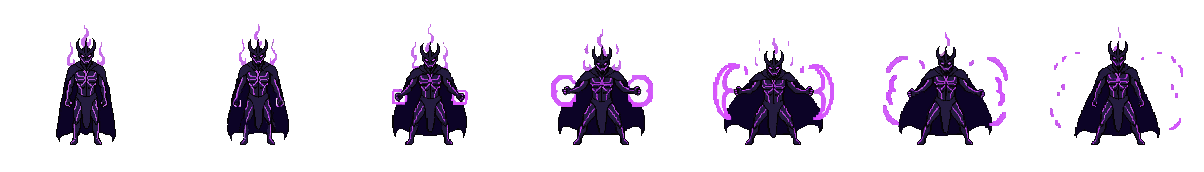
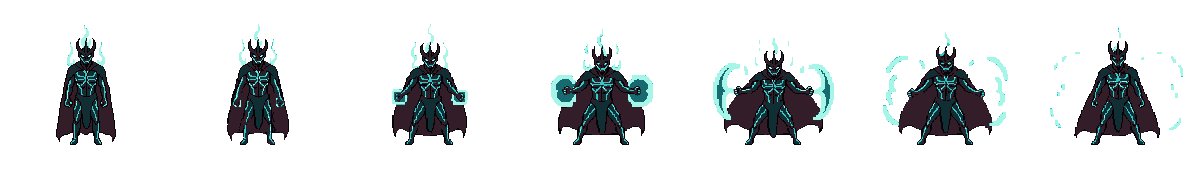
v7.5: morte dei nemici, aspetti Pixellab, nuovi colori di Azhrakel
Con «Grafica Pixellab» accesa:
- i 30 nemici hanno l'animazione di morte e restano a terra;
- i 50 aspetti degli eroi hanno la loro versione (figura e animazioni
  ricolorate), anche nel negozio degli aspetti; si caricano solo quando servono;
- Azhrakel ha la palette verde abissale, turchese, ciano e menta, per non
  somigliare a Morvath e a Ignivora;
- alone chiaro dietro i boss nelle schede dei dungeon.
55 prove automatiche.

diff --git a/index.html b/index.html
@@ -215,6 +215,9 @@ body[data-dg="cripte"] .mapsvg .edge.done{stroke:#8fd3ff}body[data-dg="cripte"] 
 .pxe,.ent.enemy .face .spr.pxe{width:calc(var(--t)*var(--k));height:calc(var(--t)*var(--k))}
 .spr.inl.pxe{display:inline-block;vertical-align:middle}
 .spr.pxi{image-rendering:auto}
+.enemy.dead .spr.pxe{transform:none}.enemy.dead .spr.pxe.pxan{animation:pxan var(--d) steps(var(--n),jump-none) 1 forwards}
+.enemy.dead:has(.pxe){opacity:.7;filter:grayscale(.35)}
+.dg .dgart:has(.pxe){border-radius:50%;background:radial-gradient(circle,rgba(255,240,215,.2),rgba(255,240,215,.07) 50%,transparent 72%)}
 .pxvil{display:flex;justify-content:center;align-items:flex-end;flex-wrap:wrap;gap:2px 6px;padding:10px 8px 6px;border-radius:12px;background:linear-gradient(#141020,#24203a 60%,#2a3a24)}
 .pxvil img{width:104px;height:104px;image-rendering:pixelated}
 .vilimg{width:96px;height:96px;image-rendering:pixelated;align-self:center}
@@ -802,8 +805,8 @@ const potIc=(id,px)=>{const p=pxIco('pot_'+id);return `<img class="spr inl${p&&p
 const ic=(name,px=16)=>{const p=pxIco(name);return `<img class="spr inl${p&&px<32?' pxi':''}" src="${p||spr(name)}" width="${px}" height="${px}" alt="">`};
 const relIc=(id,px=20)=>ic('r_'+id,px);
 // Grafica Pixellab (Sviluppo): la figura ferma dell'eroe al posto dello sprite, solo per il nome semplice dell'eroe (con un aspetto, «eroe@aspetto», resta lo sprite)
-const pxFig=name=>{try{return !!(SET.px&&CLASSES[name]&&PXI[name])}catch(e){return false}};
-const sprImg=(name,px,cls='',noPx)=>{if(!noPx&&pxeOk(name))return pxeHTML(name,px,cls);if(!noPx&&pxFig(name))return `<span class="spr pxs ${cls}" role="img" aria-label="${CLASSES[name].n}" style="width:${px}px;background-image:url(pixel/${name}.png)"></span>`;const pi=!noPx&&pxIco(name),src=pi||spr(name);const a=SPR[name]||ICONS[name]||SPR[String(name).split('@')[0]];return `<img class="spr ${cls}${pi&&px<32?' pxi':''}" src="${src}" width="${px}" height="${Math.round(px*a.length/a[0].length)}" alt="">`};
+const pxFig=name=>{try{return pxKey(name)}catch(e){return null}};
+const sprImg=(name,px,cls='',noPx)=>{if(!noPx&&pxeOk(name))return pxeHTML(name,px,cls);const fk=!noPx&&pxFig(name);if(fk)return `<span class="spr pxs ${cls}" role="img" aria-label="${CLASSES[String(name).split('@')[0]].n}" style="width:${px}px;background-image:url(pixel/${fk}.png)"></span>`;const pi=!noPx&&pxIco(name),src=pi||spr(name);const a=SPR[name]||ICONS[name]||SPR[String(name).split('@')[0]];return `<img class="spr ${cls}${pi&&px<32?' pxi':''}" src="${src}" width="${px}" height="${Math.round(px*a.length/a[0].length)}" alt="">`};
 
 /* ================= DATI DI GIOCO ================= */
 const CLASSES={
@@ -2169,29 +2172,38 @@ function pxLoad(){if(pxReq)return;pxReq=true;let left=0;const done=()=>{if(--lef
     im.onload=()=>{PXI[k]={n:Math.max(1,Math.round(im.naturalWidth/Math.max(1,im.naturalHeight)))};done()};
     im.onerror=()=>{PXI[k]=null;done()};im.src='pixel/'+k+'.png'})}
 // la figura PixelLab si usa solo con l'interruttore acceso, senza aspetto attivo e con l'immagine caricata
-const pxCls=P=>SET.px&&P&&CLASSES[P.cls]&&hsk(P)===P.cls&&PXI[P.cls]?P.cls:null;
+// chiave delle immagini dell'eroe: '<eroe>' oppure 'aspetti/<eroe>-<aspetto>' (gli aspetti si caricano solo quando servono)
+function pxKey(name){if(!SET.px)return null;const [c,sk]=String(name).split('@');if(!CLASSES[c])return null;
+  if(!sk)return PXI[c]?c:null;const k='aspetti/'+c+'-'+sk;if(PXI[k])return k;pxNeed(k);return null}
+const pxCls=P=>P&&CLASSES[P.cls]?pxKey(hsk(P)):null;
+const PXN={};function pxNeed(k){if(PXN[k]||PXI[k]!==undefined)return;PXN[k]=1;let left=4;const done=()=>{if(--left===0&&PXI[k]&&SET.px)render()};
+  ['',...PX_AN].forEach(a=>{const kk=a?k+'-'+a:k,im=new Image();im.onload=()=>{PXI[kk]={n:Math.max(1,Math.round(im.naturalWidth/Math.max(1,im.naturalHeight)))};done()};im.onerror=()=>{PXI[kk]=null;done()};im.src='pixel/'+kk+'.png'})}
 const pxMove=()=>SET.anim&&!(window.matchMedia&&matchMedia('(prefers-reduced-motion: reduce)').matches);
 function pxStyle(c,an,ago){const inf=an&&PXI[c+'-'+an];if(!inf||inf.n<2)return `background-image:url(pixel/${c}.png)`;
   return `background-image:url(pixel/${c}-${an}.png);--n:${inf.n};--d:${inf.n*PX_FD}ms;animation-delay:-${Math.max(0,ago|0)}ms`}
 function heroArt(P,pid,px){const c=pxCls(P);if(!c)return sprImg(hsk(P),px,'idle');
   const a=PXA[pid];let an=null,ago=0;
   if(a){const inf=PXI[c+'-'+a.an];ago=Date.now()-a.t0;if(inf&&inf.n>=2&&ago<inf.n*PX_FD&&pxMove())an=a.an;else delete PXA[pid]}
-  return `<span class="spr pxh ${an?'pxan':'idle'}" role="img" aria-label="${CLASSES[c].n}" data-px="${c}" style="${pxStyle(c,an,ago)}" onanimationend="pxEnd(event,this)"></span>`}
+  return `<span class="spr pxh ${an?'pxan':'idle'}" role="img" aria-label="${CLASSES[P.cls].n}" data-px="${c}" style="${pxStyle(c,an,ago)}" onanimationend="pxEnd(event,this)"></span>`}
 function pxEnd(e,sp){if(e.animationName!=='pxan')return;
-  if(sp.dataset.pxe){const id=sp.dataset.pxe;sp.className='spr pxe '+(sp.dataset.cls||'');sp.style.cssText=pxeCss(id,sp.style.getPropertyValue('--t'));return}
+  if(sp.dataset.pxe){const id=sp.dataset.pxe,t=sp.style.getPropertyValue('--t'),dc=sp.dataset.dead&&pxeDeadCss(id,t);
+    if(dc){sp.className='spr pxe pxdead';sp.style.cssText=dc;return}sp.className='spr pxe '+(sp.dataset.cls||'');sp.style.cssText=pxeCss(id,t);return}
   const c=sp.dataset.px;sp.className='spr pxh idle';sp.style.cssText=pxStyle(c)}
 /* Nemici, élite e boss (pixel/nemici/). Per ognuno: [lato della cella, riquadro della figura x0,y0,x1,y1, frame dell'attacco, frame del colpito].
    Con un'immagine mancante resta lo sprite disegnato nel codice. */
 const PXE={goblin:[68,25,10,43,55,7,7],ratto:[88,26,27,75,58,7,7],melma:[64,3,4,62,61,7,7],scheletro:[68,24,10,44,58,7,7],coboldo:[68,22,12,44,55,7,7],lupo:[84,24,24,72,58,7,7],bandito:[68,24,10,44,58,7,7],orco:[116,40,30,74,99,7,7],spettro:[64,0,8,64,56,7,7],zombi:[68,24,10,44,58,7,7],ragno:[64,2,3,61,58,7,7],cultista:[68,24,11,44,58,7,7],pipistrello:[64,0,4,64,59,7,7],imp:[68,20,10,48,55,7,7],salamandra:[64,3,3,59,61,7,7],segugio:[84,24,17,72,58,7,7],troll:[116,39,29,74,99,7,7],cavaliere:[96,35,14,62,80,7,7],golem:[96,5,3,92,91,7,7],vampiro:[104,35,15,70,84,7,7],strega:[120,39,18,76,93,7,7],demone:[116,43,19,73,99,7,7],automa:[92,34,15,59,78,7,7],sacerdote:[96,35,17,67,81,7,7],drago:[128,3,3,124,123,7,7],signoreguerra:[172,53,42,110,147,7,7],lich:[160,56,25,106,136,7,7],verme:[128,0,8,128,125,7,7],tiranno:[172,56,25,116,145,7,7],colosso:[172,61,29,112,147,7,7]};
-const PXE_AN=['attacco','colpito'];
+const PXE_AN=['attacco','colpito','morte'];
 function pxeOk(id){try{return !!(SET.px&&PXE[id]&&PXI['nemici/'+id])}catch(e){return false}}
 // la figura (non la cella) riempie un quadrato di lato --t, centrata
 function pxeCss(id,t,an,ago){const [C,x0,y0,x1,y1]=PXE[id],F=Math.max(x1-x0,y1-y0),cx=(x0+x1)/2,cy=(y0+y1)/2,r=v=>+v.toFixed(4);
   const inf=an&&PXI['nemici/'+id+'-'+an],img=inf&&inf.n>=2?`background-image:url(pixel/nemici/${id}-${an}.png);--n:${inf.n};--d:${inf.n*PX_FD}ms;animation-delay:-${Math.max(0,ago|0)}ms`:`background-image:url(pixel/nemici/${id}.png)`;
   return `--t:${t};--k:${r(C/F)};--mt:${r(.5-cy/F)};--mr:${r(.5-(C-cx)/F)};--mb:${r(.5-(C-cy)/F)};--ml:${r(.5-cx/F)};${img}`}
-function pxeHTML(id,px,cls,key){let an=null,ago=0;const a=key&&PXA[key];
+// nemico sconfitto: resta l'ultimo fotogramma della morte (se c'è l'immagine)
+function pxeDeadCss(id,t){const inf=PXI['nemici/'+id+'-morte'];if(!inf||inf.n<2)return null;return pxeCss(id,t).replace(/background-image:[^;]*$/,`background-image:url(pixel/nemici/${id}-morte.png);background-size:${inf.n*100}% 100%;background-position:100% 0`)}
+function pxeHTML(id,px,cls,key,dead){let an=null,ago=0;const a=key&&PXA[key];
   if(a){const inf=PXI['nemici/'+id+'-'+a.an];ago=Date.now()-a.t0;if(inf&&inf.n>=2&&ago<inf.n*PX_FD&&pxMove())an=a.an;else delete PXA[key]}
-  return `<span class="spr pxe ${an?'pxan':cls||''}" role="img" aria-label="${esc(ENEMIES[id].n)}" data-pxe="${id}" data-cls="${cls||''}" style="${pxeCss(id,px+'px',an,ago)}" onanimationend="pxEnd(event,this)"></span>`}
+  const dc=dead&&!an&&pxeDeadCss(id,px+'px');
+  return `<span class="spr pxe ${an?'pxan':dc?'pxdead':cls||''}" role="img" aria-label="${esc(ENEMIES[id].n)}" data-pxe="${id}" data-cls="${cls||''}"${dead?' data-dead="1"':''} style="${dc||pxeCss(id,px+'px',an,ago)}" onanimationend="pxEnd(event,this)"></span>`}
 /* Altre immagini Pixellab (v7.4): villaggio a stadi, icone, luoghi, sfondi e mappe. Ognuna si usa solo se si è caricata. */
 const PXV={locanda:4,mercato:4,fucina:4,erbe:4,tempio:4,sala:2};// stadi: 0 = in macerie, poi un'immagine per livello
 const PXI_UI=['i_coin','i_shield','i_buff','i_heal','i_skull','i_gear','i_note','i_gem','i_house','i_crown','i_lock','i_flask','combat','elite','event','rest','shop','treasure','boss'];
@@ -2221,10 +2233,11 @@ function pxMapNode(n,x1,y1,r,bid){if(n.type==='boss'&&pxeOk(bid)){const [C,x0,y0
   const p=n.type!=='boss'&&pxIco(n.type);return p?`<image href="${p}" x="${x1-r*.78}" y="${y1-r*.78}" width="${r*1.56}" height="${r*1.56}" style="image-rendering:pixelated"/>`:null}
 // fa partire un'animazione su un eroe (k = 'h-<pid>') o su un nemico (k = 'e<indice>'); false se non si può e serve il vecchio effetto
 function pxPlay(k,an){if(!SET.px||!R)return false;k=String(k);
-  if(/^e\d+$/.test(k)){const en=R.combat&&R.combat.enemies[+k.slice(1)];if(!en||en.hp<=0||!pxeOk(en.id))return false;
+  if(/^e\d+$/.test(k)){const en=R.combat&&R.combat.enemies[+k.slice(1)];if(!en||!pxeOk(en.id))return false;
+    if(en.hp<=0){if(an!=='colpito')return false;an='morte'}
     const inf=PXI['nemici/'+en.id+'-'+an];if(!inf||inf.n<2)return false;if(!pxMove())return true;
     PXA[k]={an,t0:Date.now()};const sp=document.querySelector('#ent-'+k+' .pxe');
-    if(sp){const t=sp.style.getPropertyValue('--t');sp.className='spr pxe';sp.style.cssText=pxeCss(en.id,t);void sp.offsetWidth;sp.className='spr pxe pxan';sp.style.cssText=pxeCss(en.id,t,an,0)}return true}
+    if(sp){const t=sp.style.getPropertyValue('--t');if(an==='morte')sp.dataset.dead='1';sp.className='spr pxe';sp.style.cssText=pxeCss(en.id,t);void sp.offsetWidth;sp.className='spr pxe pxan';sp.style.cssText=pxeCss(en.id,t,an,0)}return true}
   if(!R.players||k.slice(0,2)!=='h-')return false;const pid=k.slice(2),c=pxCls(R.players[pid]);
   const inf=c&&PXI[c+'-'+an];if(!inf||inf.n<2)return false;if(!pxMove())return true;
   PXA[pid]={an,t0:Date.now()};const el=document.getElementById('ent-'+k),sp=el&&el.querySelector('.pxh');
@@ -2589,7 +2602,7 @@ function combatScreen(){
   const PG=(g.pings&&!solo)?g.pings:{};const pgE=j=>Object.keys(PG).filter(p=>PG[p].k==='e'&&PG[p].j===j&&R.players[p]),pgH=Object.keys(PG).filter(p=>PG[p].k==='h'&&R.players[p]&&g.heroes[p]&&!g.heroes[p].down);
   const pgTag=(p,t)=>`<span class="pingtag" style="--pc:${pcol(p)}">${p===ME?'Tu':esc(R.players[p].name)}: ${t}</span>`;
   const en=g.enemies.map((e,j)=>`<button class="ent enemy ${e.boss?'boss':''} ${e.hp<=0?'dead':''} ${(sel&&!sel.ally||UI.ping)&&e.hp>0?'target':''} ${pgE(j).length&&e.hp>0?'pinged':''}" style="${pgE(j).length?'--pc:'+pcol(pgE(j)[0]):''}" id="ent-e${j}" onclick="clickEnemy(${j})" ${e.hp<=0?'disabled':''} aria-label="${e.n}, ${e.hp} PV">
-      ${e.hp>0&&pgE(j).length?`<span class="pings">${pgE(j).map(p=>pgTag(p,'attacco questo!')).join('')}</span>`:''}${intentHTML(e)}<span class="face">${pxeOk(e.id)?pxeHTML(e.id,e.boss?150:(ENEMIES[e.id].elite?96:80),'idle','e'+j):sprImg(e.id,e.boss?150:(ENEMIES[e.id].elite?96:80),'idle')}</span><span class="nm">${e.n}</span>${e.trait?`<span class="etrait" role="button" tabindex="0" onclick="event.stopPropagation();trInfo('${e.trait}')">${ETRAITS[e.trait][0]}</span>`:''}${isDark(e)?`<span class="etrait dark" role="button" tabindex="0" onclick="event.stopPropagation();darkInfo()">Creatura d'ombra</span>`:''}${ENEMIES[e.id].spine?`<span class="etrait" role="button" tabindex="0" onclick="event.stopPropagation();toast('Corpo di lava: chi lo colpisce con un Attacco subisce ${ENEMIES[e.id].spine} danni.')">Corpo di lava</span>`:''}${hpBar(e.hp,e.max)}
+      ${e.hp>0&&pgE(j).length?`<span class="pings">${pgE(j).map(p=>pgTag(p,'attacco questo!')).join('')}</span>`:''}${intentHTML(e)}<span class="face">${pxeOk(e.id)?pxeHTML(e.id,e.boss?150:(ENEMIES[e.id].elite?96:80),'idle','e'+j,e.hp<=0):sprImg(e.id,e.boss?150:(ENEMIES[e.id].elite?96:80),'idle')}</span><span class="nm">${e.n}</span>${e.trait?`<span class="etrait" role="button" tabindex="0" onclick="event.stopPropagation();trInfo('${e.trait}')">${ETRAITS[e.trait][0]}</span>`:''}${isDark(e)?`<span class="etrait dark" role="button" tabindex="0" onclick="event.stopPropagation();darkInfo()">Creatura d'ombra</span>`:''}${ENEMIES[e.id].spine?`<span class="etrait" role="button" tabindex="0" onclick="event.stopPropagation();toast('Corpo di lava: chi lo colpisce con un Attacco subisce ${ENEMIES[e.id].spine} danni.')">Corpo di lava</span>`:''}${hpBar(e.hp,e.max)}
       ${e.blk?`<span class="blk">${ic('i_shield',12)} ${e.blk}</span>`:''}${chips(e)}</button>`).join('');
   const cl=CLASSES[run.cls];
   const allies=Object.keys(g.heroes).filter(p=>p!==ME).map(p=>{const a=g.heroes[p],P=R.players[p];return `<div class="ent ally ${a.down?'down':''} ${sel&&sel.ally&&!a.down?'target':''}" id="ent-h-${p}" onclick="clickHero('${p}')">${heroArt(P,p,34)}
@@ -2837,7 +2850,7 @@ function skinsHTML(){const c=UI.skCls&&CLASSES[UI.skCls]?UI.skCls:pickCls,own=sk
   return `<div class="panel"><h3>Aspetti degli eroi</h3><p class="muted">Nuovi colori per i tuoi eroi, ${SKP} ${SKN} l'uno. Li vedono anche i compagni in multigiocatore. Non cambiano le regole del gioco.</p>
    <div class="row" style="gap:4px">${Object.keys(CLASSES).filter(heroOwned).map(k=>`<button class="btn ${k===c?'primary':''}" style="padding:4px 6px" onclick="UI.skCls='${k}';render()" aria-label="${CLASSES[k].n}" title="${CLASSES[k].n}">${sprImg(k,28)}</button>`).join('')}</div>
    <div class="shopgrid">${['',...skinsFor(c)].map(k=>{const id=c+'@'+k,has=!k||own.includes(id),on=cur===k;
-     return `<div class="shopitem"><button class="relicbox ${on?'on':''}" onclick="${has?`setSkin('${c}','${k}')`:`buySkin('${c}','${k}')`}" aria-pressed="${on}"><span class="ic">${sprImg(k?id:c,56,'',true)}</span><b>${k?SKINS[k][0]:'Classico'}</b><span class="muted">${on?'In uso':has?'Tocca per usarlo':'Da sbloccare'}</span></button>${has?'':`<span class="price ${cr<SKP?'no':''}">${ic(SKI,16)} ${SKP}</span>`}</div>`}).join('')}</div></div>`}
+     return `<div class="shopitem"><button class="relicbox ${on?'on':''}" onclick="${has?`setSkin('${c}','${k}')`:`buySkin('${c}','${k}')`}" aria-pressed="${on}"><span class="ic">${sprImg(k?id:c,56)}</span><b>${k?SKINS[k][0]:'Classico'}</b><span class="muted">${on?'In uso':has?'Tocca per usarlo':'Da sbloccare'}</span></button>${has?'':`<span class="price ${cr<SKP?'no':''}">${ic(SKI,16)} ${SKP}</span>`}</div>`}).join('')}</div></div>`}
 
 function bottegaHTML(){
   const z=getZaino(),cr=getCrowns();
@@ -3063,7 +3076,7 @@ function startVoteAnim(va){
 }
 function paintAnim(){document.querySelectorAll('.mapsvg .node').forEach(n=>{n.classList.toggle('spin',!!UI.anim&&n.dataset.k===UI.anim.cur)})}
 /* ================= IMPOSTAZIONI ================= */
-const VERSION='v7.4',VDATE='18/11';
+const VERSION='v7.5',VDATE='18/11';
 const SET_K='valdombra-impostazioni';
 const SET_DEF={mus:.5,sfx:.7,mute:false,chat:true,chatToast:true,anim:!(window.matchMedia&&matchMedia('(prefers-reduced-motion: reduce)').matches),vib:true,ts:1,hc:false,tut:true,stats:true,lo:true,vil:true,gem:true,px:false};
 let SET=(()=>{try{return Object.assign({},SET_DEF,JSON.parse(load(SET_K)||'{}'))}catch(e){return Object.assign({},SET_DEF)}})();
@@ -3111,7 +3124,7 @@ function settingsHTML(){
       ${swb('lo','Luce e Ombra','Le carte si possono giocare dal lato Ombra, più forte ma rischioso, e ci sono le creature d\'ombra. In gruppo vale la scelta di chi crea la stanza, dalla partita successiva.')}
       ${swb('vil','Villaggio di Valdombra','La missione secondaria: ricostruisci gli edifici per avere vantaggi a inizio partita.')}
       ${swb('gem','Gemme','La seconda moneta per aspetti, cimeli permanenti e cambio in Corone. Spenta, gli aspetti tornano a costare Corone.')}
-      ${swb('px','Grafica Pixellab','Eroi, nemici, boss, villaggio, icone, eventi, sfondi e mappe sono disegnati con PixelLab; in combattimento eroi e nemici si muovono quando attaccano, si difendono o vengono colpiti. Vale solo su questo dispositivo. Con un aspetto attivo, o se un\'immagine non si carica, resta lo sprite di sempre.')}
+      ${swb('px','Grafica Pixellab','Eroi, nemici, boss, villaggio, icone, eventi, sfondi e mappe sono disegnati con PixelLab; in combattimento eroi e nemici si muovono quando attaccano, si difendono o vengono colpiti. Anche gli aspetti hanno la loro versione. Vale solo su questo dispositivo. Se un\'immagine non si carica resta lo sprite di sempre.')}
       ${R&&R.phase!=='lobby'?'<p class="muted" style="font-size:13px">Luce e Ombra cambia dalla prossima partita.</p>':''}
     </div>
     <div class="panel"><h4>${ic('i_gear',18)} Informazioni</h4>
@@ -3119,7 +3132,7 @@ function settingsHTML(){
       <div class="srow"><div class="lab">Codice<small>Hai un codice? Scrivilo qui.</small></div><input id="rcode" class="txt" maxlength="40" style="max-width:200px" autocomplete="off" placeholder="Codice"><button class="btn" onclick="redeem()">Usa</button></div>
       <div class="srow"><div class="lab">Profilo</div><b>${ACC?esc(ACC.nome):'nessuno'}</b><button class="btn" onclick="openProfilo()">${ACC?'Gestisci':'Accedi'}</button></div>
       ${inRoom?`<div class="srow"><div class="lab">Stanza</div><b>${R.code}</b></div><div class="srow"><div class="lab">Connessione</div><b>${isHost?'Sei tu a guidare la stanza':'Collegato'}</b></div>`:''}
-      <p class="muted" style="font-size:13px">Novità della 7.4: con «Grafica Pixellab» accesa il villaggio cambia aspetto a ogni ricostruzione, reliquie, pozioni e icone sono nuove, eventi e luoghi hanno la loro illustrazione, i combattimenti hanno lo sfondo del dungeon e la mappa ha sfondo, decorazioni e la figura del tuo eroe. Novità della 7.3: con «Grafica Pixellab» accesa anche nemici, élite e boss sono disegnati con PixelLab, attaccano e reagiscono ai colpi; nuova icona del gioco. Novità della 7.2: con «Grafica Pixellab» accesa gli eroi disegnati con PixelLab compaiono ovunque, anche nella scelta dell'eroe, nei menu e nei riepiloghi. Novità della 7.1: in Sviluppo c'è «Grafica Pixellab», spenta di base. Accesa, in combattimento gli eroi sono disegnati con PixelLab e hanno le animazioni di attacco, difesa e colpo subito. Novità della 7.0: il pulsante «Gioca» sempre visibile per scegliere la modalità; Luce e Ombra (ogni carta si può giocare dal lato Ombra, più forte ma rischioso; creature d'ombra, mercante, eventi e bottino reagiscono alla tua Ombra), il Villaggio di Valdombra da ricostruire per avere vantaggi in ogni partita, e le Gemme, la seconda moneta per cimeli permanenti e aspetti. Si possono spegnere da Sviluppo. Dalla 6.4: la sfida del giorno usa tutti e 10 gli eroi e non ripete eroe, dungeon o modificatore del giorno prima; dalla 6.3: corretto il blocco quando l'eroe cade per una carta Ustione o Maledizione, tratti delle élite più leggeri (soprattutto da soli); dalla 6.2: aspetto Autunno per Ladro, Ranger e Druido, barra per la dimensione del testo, Guida del gioco, il tutorial riprende da dove eri rimasto; dalla 6.0: tutorial, Imprese con corone, un secondo boss per ogni dungeon, élite con tratti speciali, segnali in combattimento, rianimazione, aspetti degli eroi, opzioni di accessibilità e statistiche anonime; dalla 5.4: in multigiocatore ognuno deve aver sbloccato il dungeon e il Livello di Assedio scelto; in modalità normale i dungeon si sbloccano solo completando il precedente, in Sopravvivenza anche superando lì un ciclo; sei nuovi eroi da sbloccare (Necromante, Ranger, Druido, Monaco, Guardiano, Paladino); dalla 4.0: terzo dungeon, carte di gruppo, sfida del giorno, diario con statistiche ed enciclopedia, riepilogo di fine partita, percorsi disegnati sulla mappa, «Riprendi il turno» e gioco installabile.</p>
+      <p class="muted" style="font-size:13px">Novità della 7.5: con «Grafica Pixellab» accesa i nemici sconfitti hanno la loro animazione di morte e restano a terra, gli aspetti degli eroi hanno la versione Pixellab e Azhrakel ha nuovi colori. Novità della 7.4: con «Grafica Pixellab» accesa il villaggio cambia aspetto a ogni ricostruzione, reliquie, pozioni e icone sono nuove, eventi e luoghi hanno la loro illustrazione, i combattimenti hanno lo sfondo del dungeon e la mappa ha sfondo, decorazioni e la figura del tuo eroe. Novità della 7.3: con «Grafica Pixellab» accesa anche nemici, élite e boss sono disegnati con PixelLab, attaccano e reagiscono ai colpi; nuova icona del gioco. Novità della 7.2: con «Grafica Pixellab» accesa gli eroi disegnati con PixelLab compaiono ovunque, anche nella scelta dell'eroe, nei menu e nei riepiloghi. Novità della 7.1: in Sviluppo c'è «Grafica Pixellab», spenta di base. Accesa, in combattimento gli eroi sono disegnati con PixelLab e hanno le animazioni di attacco, difesa e colpo subito. Novità della 7.0: il pulsante «Gioca» sempre visibile per scegliere la modalità; Luce e Ombra (ogni carta si può giocare dal lato Ombra, più forte ma rischioso; creature d'ombra, mercante, eventi e bottino reagiscono alla tua Ombra), il Villaggio di Valdombra da ricostruire per avere vantaggi in ogni partita, e le Gemme, la seconda moneta per cimeli permanenti e aspetti. Si possono spegnere da Sviluppo. Dalla 6.4: la sfida del giorno usa tutti e 10 gli eroi e non ripete eroe, dungeon o modificatore del giorno prima; dalla 6.3: corretto il blocco quando l'eroe cade per una carta Ustione o Maledizione, tratti delle élite più leggeri (soprattutto da soli); dalla 6.2: aspetto Autunno per Ladro, Ranger e Druido, barra per la dimensione del testo, Guida del gioco, il tutorial riprende da dove eri rimasto; dalla 6.0: tutorial, Imprese con corone, un secondo boss per ogni dungeon, élite con tratti speciali, segnali in combattimento, rianimazione, aspetti degli eroi, opzioni di accessibilità e statistiche anonime; dalla 5.4: in multigiocatore ognuno deve aver sbloccato il dungeon e il Livello di Assedio scelto; in modalità normale i dungeon si sbloccano solo completando il precedente, in Sopravvivenza anche superando lì un ciclo; sei nuovi eroi da sbloccare (Necromante, Ranger, Druido, Monaco, Guardiano, Paladino); dalla 4.0: terzo dungeon, carte di gruppo, sfida del giorno, diario con statistiche ed enciclopedia, riepilogo di fine partita, percorsi disegnati sulla mappa, «Riprendi il turno» e gioco installabile.</p>
       <p class="muted" style="font-size:13px">Le impostazioni (audio, chat, grafica) valgono solo per questo dispositivo. I progressi di gioco seguono il tuo profilo.</p>
       <div><button class="btn" onclick="SET=Object.assign({},SET_DEF);saveSet();render()">Ripristina le impostazioni</button></div>
     </div></div>`;

diff --git a/tests/prove.js b/tests/prove.js
@@ -215,7 +215,7 @@ const ok=(cond,msg)=>{console.log((cond?'  ok   ':'  ERRORE ')+msg);if(!cond)fal
     SET.px=false;saveSet();nuova('guerriero');r.spenta=!document.querySelector('.pxh')&&!!document.querySelector('#ent-h-pA img.spr');
     openSettings();r.interruttore=document.querySelector('button.sw[aria-label="Grafica Pixellab"]')?.getAttribute('aria-pressed')==='false';closeModal();
     // accesa: le 40 immagini e la figura di ogni eroe
-    SET.px=true;saveSet();let w=0;while(Object.keys(PXI).length<245&&w<900){await sleep(10);w++}
+    SET.px=true;saveSet();let w=0;while(Object.keys(PXI).length<275&&w<900){await sleep(10);w++}
     r.caricate=Object.values(PXI).filter(Boolean).length;
     r.senzaFigura=Object.keys(CLASSES).filter(cls=>{nuova(cls);const s=sp('pA');return !(s&&s.style.backgroundImage.includes('pixel/'+cls+'.png')&&s.classList.contains('idle'))});
     nuova('guerriero');
@@ -231,14 +231,15 @@ const ok=(cond,msg)=>{console.log((cond?'  ok   ':'  ERRORE ')+msg);if(!cond)fal
     r.lampo=!!s&&s.classList.contains('hit')&&!s.style.backgroundImage.includes('colpito');PXI['guerriero-colpito']=kc;
     const kf=PXI.guerriero;PXI.guerriero=null;render();r.sprite=!sp('pA')&&!!document.querySelector('#ent-h-pA img.spr');PXI.guerriero=kf;
     // con un aspetto attivo resta lo sprite dell'aspetto
-    setSkin('guerriero','cremisi');r.aspetto=!sp('pA')&&!!document.querySelector('#ent-h-pA img.spr');setSkin('guerriero',null);
+    setSkin('guerriero','cremisi');{let w=0;while(!PXI['aspetti/guerriero-cremisi-colpito']&&w<300){await sleep(10);w++}}render();{const sa=sp('pA');r.aspetto=!!sa&&sa.style.backgroundImage.includes('aspetti/guerriero-cremisi')}setSkin('guerriero',null);
     // nemici: figura, attacco quando agiscono, colpito quando subiscono danni
     nuova('guerriero');const ne=sel=>{const s=document.querySelector(sel);return s?s.className+'|'+s.style.backgroundImage:''};
     r.nemFig=ne('#ent-e0 .pxe');ctx(ME);const e0=g.enemies[0];e0.intent={d:3};
-    const gq=R.combat.enemies.map(x=>x.id);r.nemTutti=Object.keys(PXE).filter(id=>!PXI['nemici/'+id]||!PXI['nemici/'+id+'-attacco']||!PXI['nemici/'+id+'-colpito']);
+    const gq=R.combat.enemies.map(x=>x.id);r.nemTutti=Object.keys(PXE).filter(id=>!PXI['nemici/'+id]||!PXI['nemici/'+id+'-attacco']||!PXI['nemici/'+id+'-colpito']||!PXI['nemici/'+id+'-morte']);
     doIntent(e0);commit();r.nemAtt=ne('#ent-e0 .pxe');await sleep(900);
     ctx(ME);hurtEnemy(g.enemies[1],2);fx('e1','-2','dmg');commit();r.nemCol=ne('#ent-e1 .pxe');
     r.nemFlash=!!document.querySelector('#ent-e1 .spr.hit');r.nemiciIn=gq.join(',');await sleep(900);
+    ctx(ME);hurtEnemy(g.enemies[1],9999);fx('e1','-99','dmg');commit();r.nemMorte=ne('#ent-e1 .pxe');await sleep(900);r.nemMorto=ne('#ent-e1 .pxe');
     // sfondo del combattimento, mappa, luoghi, villaggio e icone
     r.sfondo=(document.querySelector('.combat')||{style:{}}).style.background||'';
     R.phase='map';render();r.mappa=!!document.querySelector('#mapsvg.pxmap pattern image')&&document.querySelectorAll('#mapsvg image[href^="pixel/mappa/"]').length>0;
@@ -250,17 +251,19 @@ const ok=(cond,msg)=>{console.log((cond?'  ok   ':'  ERRORE ')+msg);if(!cond)fal
     R=null;solo=true;ME='solo';screen='title';modal=null;render();
     const scelta=()=>[...document.querySelectorAll('.classes .pxs')].map(e=>e.style.backgroundImage);
     r.scelta=scelta();setSkin('guerriero','cremisi');r.sceltaAspetto=scelta();setSkin('guerriero',null);
-    UI.skCls='guerriero';modal={title:'Aspetti',cancel:true,html:skinsHTML()};render();r.negozio=!document.querySelector('.shopgrid .pxs')&&document.querySelectorAll('.shopgrid img.spr').length>0;modal=null;
+    UI.skCls='guerriero';modal={title:'Aspetti',cancel:true,html:skinsHTML()};render();{let w=0;while(!PXI['aspetti/guerriero-gelo']&&w<300){await sleep(10);w++}}render();r.negozio=document.querySelectorAll('.shopgrid .pxs').length>=2;modal=null;
     SET.px=false;saveSet();render();r.rispenta=!document.querySelector('.pxh')&&!document.querySelector('.pxs');
     R=null;solo=true;ME='solo';screen='title';modal=null;render();return r});
   ok(px.base&&px.spenta&&px.interruttore,'Grafica Pixellab: spenta di base, con l\'interruttore in Sviluppo, e senza resta lo sprite di sempre');
-  ok(px.caricate===245&&!px.senzaFigura.length,`le immagini in pixel/ si caricano (${px.caricate}/245) e ogni eroe ha la sua figura${px.senzaFigura.length?' (mancano: '+px.senzaFigura+')':''}`);
+  ok(px.caricate===275&&!px.senzaFigura.length,`le immagini in pixel/ si caricano (${px.caricate}/275) e ogni eroe ha la sua figura${px.senzaFigura.length?' (mancano: '+px.senzaFigura+')':''}`);
   ok(!px.nemTutti.length&&/pixel\/nemici\/.+\.png/.test(px.nemFig)&&/pxan/.test(px.nemAtt)&&/-attacco/.test(px.nemAtt)&&/pxan/.test(px.nemCol)&&/-colpito/.test(px.nemCol)&&!px.nemFlash,`nemici (${px.nemiciIn}): figura, attacco quando agiscono, colpito al posto del lampo; tutti i 30 hanno le immagini${px.nemTutti.length?' (mancano: '+px.nemTutti+')':''}`);
+  ok(/pxan/.test(px.nemMorte)&&/-morte/.test(px.nemMorte)&&/pxdead/.test(px.nemMorto)&&/-morte/.test(px.nemMorto),'nemico sconfitto: animazione di morte, poi resta a terra');
   ok(/pxan/.test(px.attacco)&&/guerriero-attacco/.test(px.attacco)&&/pxan/.test(px.resta)&&/idle/.test(px.fine)&&/pixel\/guerriero\.png/.test(px.fine),'carta Attacco: animazione d\'attacco, che continua se la schermata si ridisegna, poi torna la figura ferma');
   ok(/guerriero-difesa/.test(px.difesa)&&/guerriero-colpito/.test(px.colpito)&&!/\bhit\b/.test(px.colpito)&&/mago-colpito/.test(px.compagno),'carta con Armatura: difesa; danni subiti: colpito al posto del lampo, anche per il compagno');
-  ok(px.lampo&&px.sprite&&px.aspetto&&px.rispenta,'se un\'immagine manca o c\'è un aspetto attivo resta la grafica di sempre');
+  ok(px.lampo&&px.sprite&&px.rispenta,'se un\'immagine manca resta la grafica di sempre');
+  ok(px.aspetto&&px.negozio,'gli aspetti hanno la loro versione Pixellab, anche nel negozio degli aspetti');
   ok(/combattimento-rocca/.test(px.sfondo)&&px.mappa&&px.mappaEroi&&px.luogo&&px.icona&&px.titolo&&px.villaggio,'sfondi del combattimento, mappa con decorazioni e figura dell\'eroe, luoghi, icone, schermata iniziale e villaggio a stadi '+JSON.stringify({s:!!px.sfondo,m:px.mappa,e:px.mappaEroi,l:px.luogo,i:px.icona,t:px.titolo,v:px.villaggio}));
-  ok(px.scelta.length>=4&&px.scelta.some(s=>s.includes('pixel/guerriero.png'))&&!px.sceltaAspetto.some(s=>s.includes('pixel/guerriero.png'))&&px.negozio,`fuori dal combattimento: figure Pixellab nella scelta dell'eroe (${px.scelta.length}), sprite con un aspetto attivo e nel negozio degli aspetti`);
+  ok(px.scelta.length>=4&&px.scelta.some(s=>s.includes('pixel/guerriero.png'))&&!px.sceltaAspetto.some(s=>s.includes('pixel/guerriero.png')),`fuori dal combattimento: figure Pixellab nella scelta dell'eroe (${px.scelta.length}), che seguono l'aspetto scelto`);
 
   console.log('');
   if(errori.length){console.log('Errori JavaScript nella pagina:');[...new Set(errori)].forEach(e=>console.log('  - '+e));fallite++}
